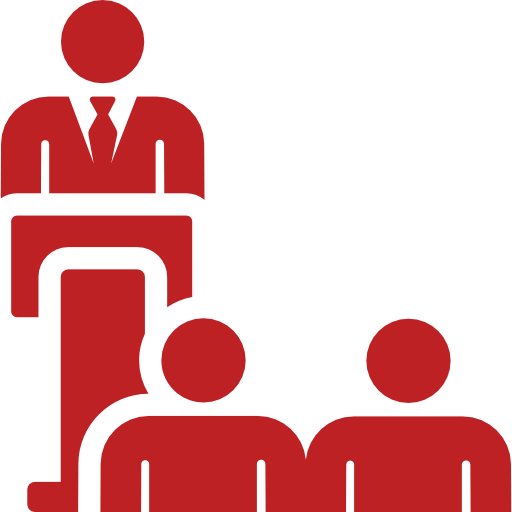
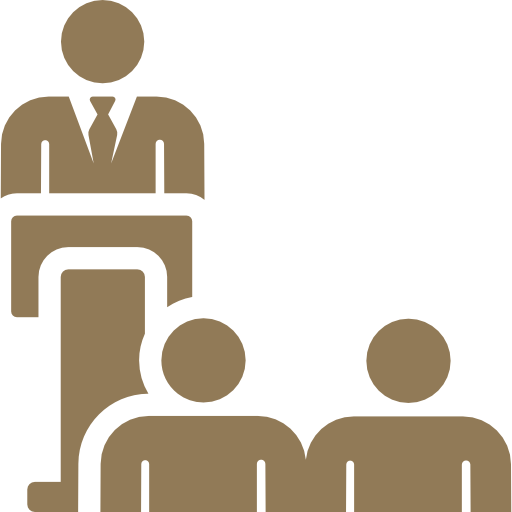
Mudança de Design para P4P
design p/p4p

diff --git a/cinema.js b/cinema.js
@@ -418,7 +418,7 @@ function getconf(){
               divconf.title = "live";
               divconf.id = data[i].id_conferencia;
               if(lastclicked == data[i].id_conferencia){
-                  divconf.style.border = "solid 1px #bd2124";
+                  divconf.style.border = "solid 1px #917a57";
               }
 
               var divnpeople = document.createElement('div');
@@ -505,7 +505,7 @@ function getconf(){
             divconf.title = "offline";
             divconf.id = data[i].id_conferencia;
             if(lastclicked == data[i].id_conferencia){
-                divconf.style.border = "solid 1px #bd2124";
+                divconf.style.border = "solid 1px #917a57";
             }
 
             if(data[i].dia != ""){
@@ -558,7 +558,7 @@ function getconf(){
             for (var j=0; j<data.length; j ++){
               document.getElementById(data[j].id_conferencia).style.border = "solid 1px #5d5d5d";
             }
-            document.getElementById(this.id).style.border = "solid 1px #bd2124";
+            document.getElementById(this.id).style.border = "solid 1px #917a57";
             lastclicked = this.id;
 
             if(this.title == 'live'){
@@ -629,7 +629,7 @@ function getconf(){
           });
 
           $("#" + data[i].id_conferencia).on("mouseover", function(){
-              document.getElementById(this.id).style.border = "solid 1px #bd2124";
+              document.getElementById(this.id).style.border = "solid 1px #917a57";
           });
 
           $("#" + data[i].id_conferencia).on("mouseout", function(){
@@ -770,11 +770,11 @@ function init() {
 
   var divtexto1 = document.createElement('div');
   divtexto1.style.borderBottom = "solid 1px #5d5d5d";
-  divtexto1.style.width = "400px";
+  divtexto1.style.width = "600px";
   divtexto1.style.margin = "auto";
 
   var textowelcome = document.createElement('p');
-  textowelcome.innerHTML = "Welcome to <b><span style='color:#bd2124'>PLAY 4 POVERTY</span></b>";
+  textowelcome.innerHTML = "Welcome to <b><span style='color:#917a57'>PLAY 4 POVERTY</span></b> - Virtual Conference Room";
   textowelcome.style.fontFamily = "osr";
   textowelcome.style.fontSize = "23px";
 
@@ -867,7 +867,7 @@ function init() {
 
   var splashelpbt = document.createElement('div');
   splashelpbt.style.color = "white";
-  splashelpbt.style.backgroundColor= "rgba(189, 33, 36, 1)";
+  splashelpbt.style.backgroundColor= "#917a57";
   splashelpbt.style.cursor = "pointer";
   splashelpbt.style.width = '60px';
   splashelpbt.style.textAlign = "center";
@@ -1054,7 +1054,7 @@ function init() {
 
   var legEsq = document.createElement('div');
   legEsq.style.width = '60px';
-  legEsq.style.backgroundColor= "rgba(189, 33, 36, 1)";
+  legEsq.style.backgroundColor= "#917a57";
   legEsq.style.fontFamily = "osb";
   legEsq.style.height = '60px';
   legEsq.style.textAlign = 'center';
@@ -1095,7 +1095,7 @@ function init() {
 
   var legDir = document.createElement('div');
   legDir.style.width = '60px';
-  legDir.style.backgroundColor= "rgba(189, 33, 36, 1)";
+  legDir.style.backgroundColor= "#917a57";
   legDir.style.fontFamily = "osb";
   legDir.style.height = '60px';
   legDir.style.textAlign = 'center';
@@ -1508,7 +1508,7 @@ function showMenuSelect(){
   divInfoMovie.style.height = '170px';
   divInfoMovie.style.padding = '0';
   divInfoMovie.style.position = "absolute";
-  divInfoMovie.style.background = '#FFF';
+  divInfoMovie.style.background = 'black';
   divInfoMovie.id = 'divInfoMovie';
   divInfoMovie.style.right = '0';
   divInfoMovie.style.top = '0';
@@ -1547,7 +1547,7 @@ function showMenuSelect(){
   bannerSeats.innerHTML = "Seats";
   bannerSeats.style.width = "100%";
   bannerSeats.style.height = "25px";
-  bannerSeats.style.backgroundColor = "#BD2124";
+  bannerSeats.style.backgroundColor = "#917a57";
   bannerSeats.style.display = "inline-block";
   bannerSeats.style.fontFamily = "ossb";
   bannerSeats.style.lineHeight ="80%";
@@ -1574,7 +1574,8 @@ function showMenuSelect(){
   divInfo.appendChild(bannerSeats);
   divInfo.appendChild(selectLugares);
   document.body.appendChild(iDiv);
-  document.getElementById("logoCinema").src="img/p4p.png";
+  document.getElementById("logoCinema").src="img/P4PLogo.png";
+  document.getElementById("logoCinema").style.height="85%";
 
   $('#menuSelect').bind('mouseenter' ,"*", function(e){
     mouseIsOnMenu = true;

diff --git a/css/adminStyle.css b/css/adminStyle.css
@@ -48,7 +48,7 @@ body
 .loginConfInput
 {
   background-color: transparent;
-  border:1px solid #BD2124;
+  border:1px solid #917a57;
   outline: none;
   color:white;
   padding:5px;
@@ -56,8 +56,8 @@ body
 
 #loginConfButton
 {
-  background-color: #BD2124;
-  width:208px;
+  background-color: #917a57;
+  width:190px;
   height:30px;
   margin-left:5px;
 }
@@ -124,7 +124,7 @@ body
   z-index: 1; /* Stay on top */
   top: 0;
   left: 0;
-  background-color: #BD2124; /* Black*/
+  background-color: #917a57; /* Black*/
   overflow-x: hidden; /* Disable horizontal scroll */
   padding-top: 60px; /* Place content 60px from the top */
   transition: 0.5s; /* 0.5 second transition effect to slide in the sidenav */
@@ -218,7 +218,7 @@ body
 
 #video
 {
-  border:3px solid #BD2124;
+  border:3px solid #917a57;
   margin-left:10px;
   margin-top:20px;
   margin-bottom:20px;
@@ -228,7 +228,7 @@ body
 
 .sliderButton
 {
-  color:#BD2124;
+  color:#917a57;
   display:none;
   position:absolute;
 }
@@ -304,7 +304,7 @@ body
 
   #loginConfButton
   {
-    background-color: #BD2124;
+    background-color: #917a57;
     width:208px;
     height:30px;
     margin-top:10px;
@@ -384,7 +384,7 @@ body
 
   .sliderButton
   {
-    color:#BD2124 !important;
+    color:#917a57 !important;
     display:block;
     position:absolute;
     border:1px solid red !important;
@@ -502,7 +502,7 @@ body
 
   #loginConfButton
   {
-    background-color: #BD2124;
+    background-color: #917a57;
     width:208px;
     height:30px;
     margin-top:20px;
@@ -587,7 +587,7 @@ body
 
   .sliderButton
   {
-    color:#BD2124 !important;
+    color:#917a57 !important;
     display:block;
     position:absolute;
     border:1px solid red !important;

diff --git a/css/indexStyle.css b/css/indexStyle.css
@@ -44,7 +44,7 @@ a:hover
   text-align:center;
   font-size:2vw !important;
   padding-bottom:10px;
-  border-bottom: 2px solid #BD2124;
+  border-bottom: 2px solid  #917a57;
 }
 
 #paragraphAreYou

diff --git a/admin.php b/admin.php
@@ -22,7 +22,7 @@ if($_SESSION['entrou'] == "") {
   <script src="js/adminConference.js"></script>
 </head>
 <body>
-  <nav id="menu" class="menu" style="background-color:#BD2124; display:none; ">
+  <nav id="menu" class="menu" style="background-color:#917a57; display:none; ">
     <div id="sideMenuUsers" class="sidenav" style="width:100%;">
       <div id="ligacoes" style="display:block; text-align:center; width:100%; margin-left:10px; border-bottom:1px solid black; padding:10px;"></div>
       <br>
@@ -32,16 +32,16 @@ if($_SESSION['entrou'] == "") {
 
   <main id="main" style="background-color:black;">
     <header class="panel-header" style="position:absolute;">
-      <button id="sliderButton" class="btn js-slideout-toggle" style="z-index:999; position:absolute; margin-top:50vh; display:none; background-color:#BD2124; border:0px; border-bottom-right-radius:25px; border-top-right-radius:25px;"> <span class="glyphicon glyphicon-user" style="margin-right:5px;"></span> <div style="display:inline; color:rgba(255,255,255,0.25);">></div>
+      <button id="sliderButton" class="btn js-slideout-toggle" style="z-index:999; position:absolute; margin-top:50vh; display:none; background-color:#917a57; border:0px; border-bottom-right-radius:25px; border-top-right-radius:25px;"> <span class="glyphicon glyphicon-user" style="margin-right:5px;"></span> <div style="display:inline; color:rgba(255,255,255,0.25);">></div>
       </button>
     </header>
     <div id="mainContainer" class="container" style="width:100%;">
       <div class="row" id="mainRow" style="height:100%;">
         <div class="row" style="height:15%;">
-          <img class="img-responsive" style="margin:auto; height:100%;" src="img/p4p.png"></img>
+          <img class="img-responsive" style="margin:auto; height:100%;" src="img/P4PLogo.png"></img>
         </div>
         <div class="row" id="mainTitleRow">
-          <h1 style="width:70%; margin:auto; border-bottom:2px solid #BD2124; padding-bottom:1%;"> Virtual <div style="display:inline; color:#BD2124;">Conference</div> Room - Speaker</h1>
+          <h1 style="width:70%; margin:auto; border-bottom:2px solid #917a57; padding-bottom:1%;"> Virtual <div style="display:inline; color:#917a57">Conference</div> Room - Speaker</h1>
         </div>
         <div class="row" id="loginRow">
           <div id="login" style="width:100%;">
@@ -63,7 +63,7 @@ if($_SESSION['entrou'] == "") {
             </div>
             <br>
             <div class="row" id="errorRow">
-              <div id="formErrorMessageDiv" style="display:none;"><p style="display:inline;"> Please specify a </p> <p id="formErrorMessage" style="display:inline; color:#BD2124;"> </p> <p style="display:inline;"> in order to continue. </p></div>
+              <div id="formErrorMessageDiv" style="display:none;"><p style="display:inline;"> Please specify a </p> <p id="formErrorMessage" style="display:inline; color:#917a57"> </p> <p style="display:inline;"> in order to continue. </p></div>
             </div>
         </div>
       </div>

diff --git a/index.php b/index.php
@@ -21,13 +21,13 @@
         }
 
         .btentrar:hover{
-          color: #bd2124;
+          color:  #917a57;
         }
       </style>
       <body>
         <?php
           if (isset($_POST['entrar'])){
-            if($_POST['pass'] == '17112016'){
+            if($_POST['pass'] == 'playroom'){
               session_start();
               $_SESSION['entrou'] = 'true';
               header('location: ibo.php');
@@ -35,16 +35,16 @@
           }
         ?>
         <div id="mainContainer" class="container" style="width:100%;">
-          <div class="row" style="margin:auto; width:100%; height:20%;">
-            <img id="p4pLogo" class="img-responsive" src="img/p4p.png" style="margin:auto; height:90%;"></img>
+          <div class="row" style="margin:auto; width:100%; height:30%; margin-top:10%;">
+            <img id="p4pLogo" class="img-responsive" src="img/P4PLogo.png" style="margin:auto; padding-top:40px; height:100%;"></img>
           </div>
-          <div class="row" style="height:10%; ">
-            <h1 id="mainTitle"> Virtual <div style="display:inline; color:#BD2124;">Conference</div> Room</h1>
+          <div class="row" style="height:10%; padding-top:40px;  width:30%; margin:auto;">
+            <h1 id="mainTitle"> Virtual <div style="display:inline; color: #917a57;">Conference</div> Room</h1>
           </div>
-          <div class="row" style="position: absolute; width: 100%; top: 50%; height: 70px; margin-top: -50px;">
+          <div class="row" style="position: absolute; width: 100%; top: 50%; height: 70px; margin-top: 6%; ">
             <div class="col-md-12" style="text-align:center;">
               <form method="post" id="form_login">
-                <input type="password" id="pass" name="pass" style="border:solid 1px #bd2124; width: 200px; text-align: center; height: 30px; background-color:transparent; color: white; font-size: 18px; outline: none; font-family: ossb;" placeholder="Password">
+                <input type="password" id="pass" name="pass" style="border:solid 1px  #917a57; width: 200px; text-align: center; height: 30px; background-color:transparent; color: white; font-size: 18px; outline: none; font-family: ossb;" placeholder="Password">
                 <br>
                 <br>
                 <input type="submit" id="entrar" name="entrar" class="btentrar" value="Log In" style=" display: none;border:transparent; background-color:transparent; font-size: 20px; outline: none; font-family: ossb;" placeholder="Password">

diff --git a/ibo.php b/ibo.php
@@ -50,7 +50,7 @@ if($_SESSION['entrou'] == "") {
         }
 
         .conferencia:hover{
-           border : 1px solid #bd2124;
+           border : 1px solid #917a57;
         }
 
         .btentrar{
@@ -61,7 +61,7 @@ if($_SESSION['entrou'] == "") {
         }
 
         .btentrar:hover{
-          color: #bd2124;
+          color: #917a57;
         }
 
         .npeople {
@@ -71,17 +71,17 @@ if($_SESSION['entrou'] == "") {
           -o-transition : border-left 400ms ease-out;
         }
 
-        .conferencia:hover > .npeople { border-left: 1px solid #bd2124; }
+        .conferencia:hover > .npeople { border-left: 1px solid #917a57; }
 
         @-webkit-keyframes coloranim {
             0%     {border-color: #5d5d5d;}
-            50.0%  {border-color:#bd2124;}
+            50.0%  {border-color:#917a57;}
             100.0%  {border-color:#5d5d5d;}
         }
 
         @keyframes coloranim {
             0%     {border-color:#5d5d5d;}
-            50.0%  {border-color:#bd2124;}
+            50.0%  {border-color:#917a57;}
             100.0%  {border-color:#5d5d5d;}
         }
 
@@ -124,7 +124,7 @@ if($_SESSION['entrou'] == "") {
       #divMainConf::-webkit-scrollbar-thumb {
           -webkit-border-radius: 10px;
           border-radius: 10px;
-          background: #bd2124;
+          background: #917a57;
           -webkit-box-shadow: inset 0 0 6px rgba(0,0,0,0.5);
 
       }
